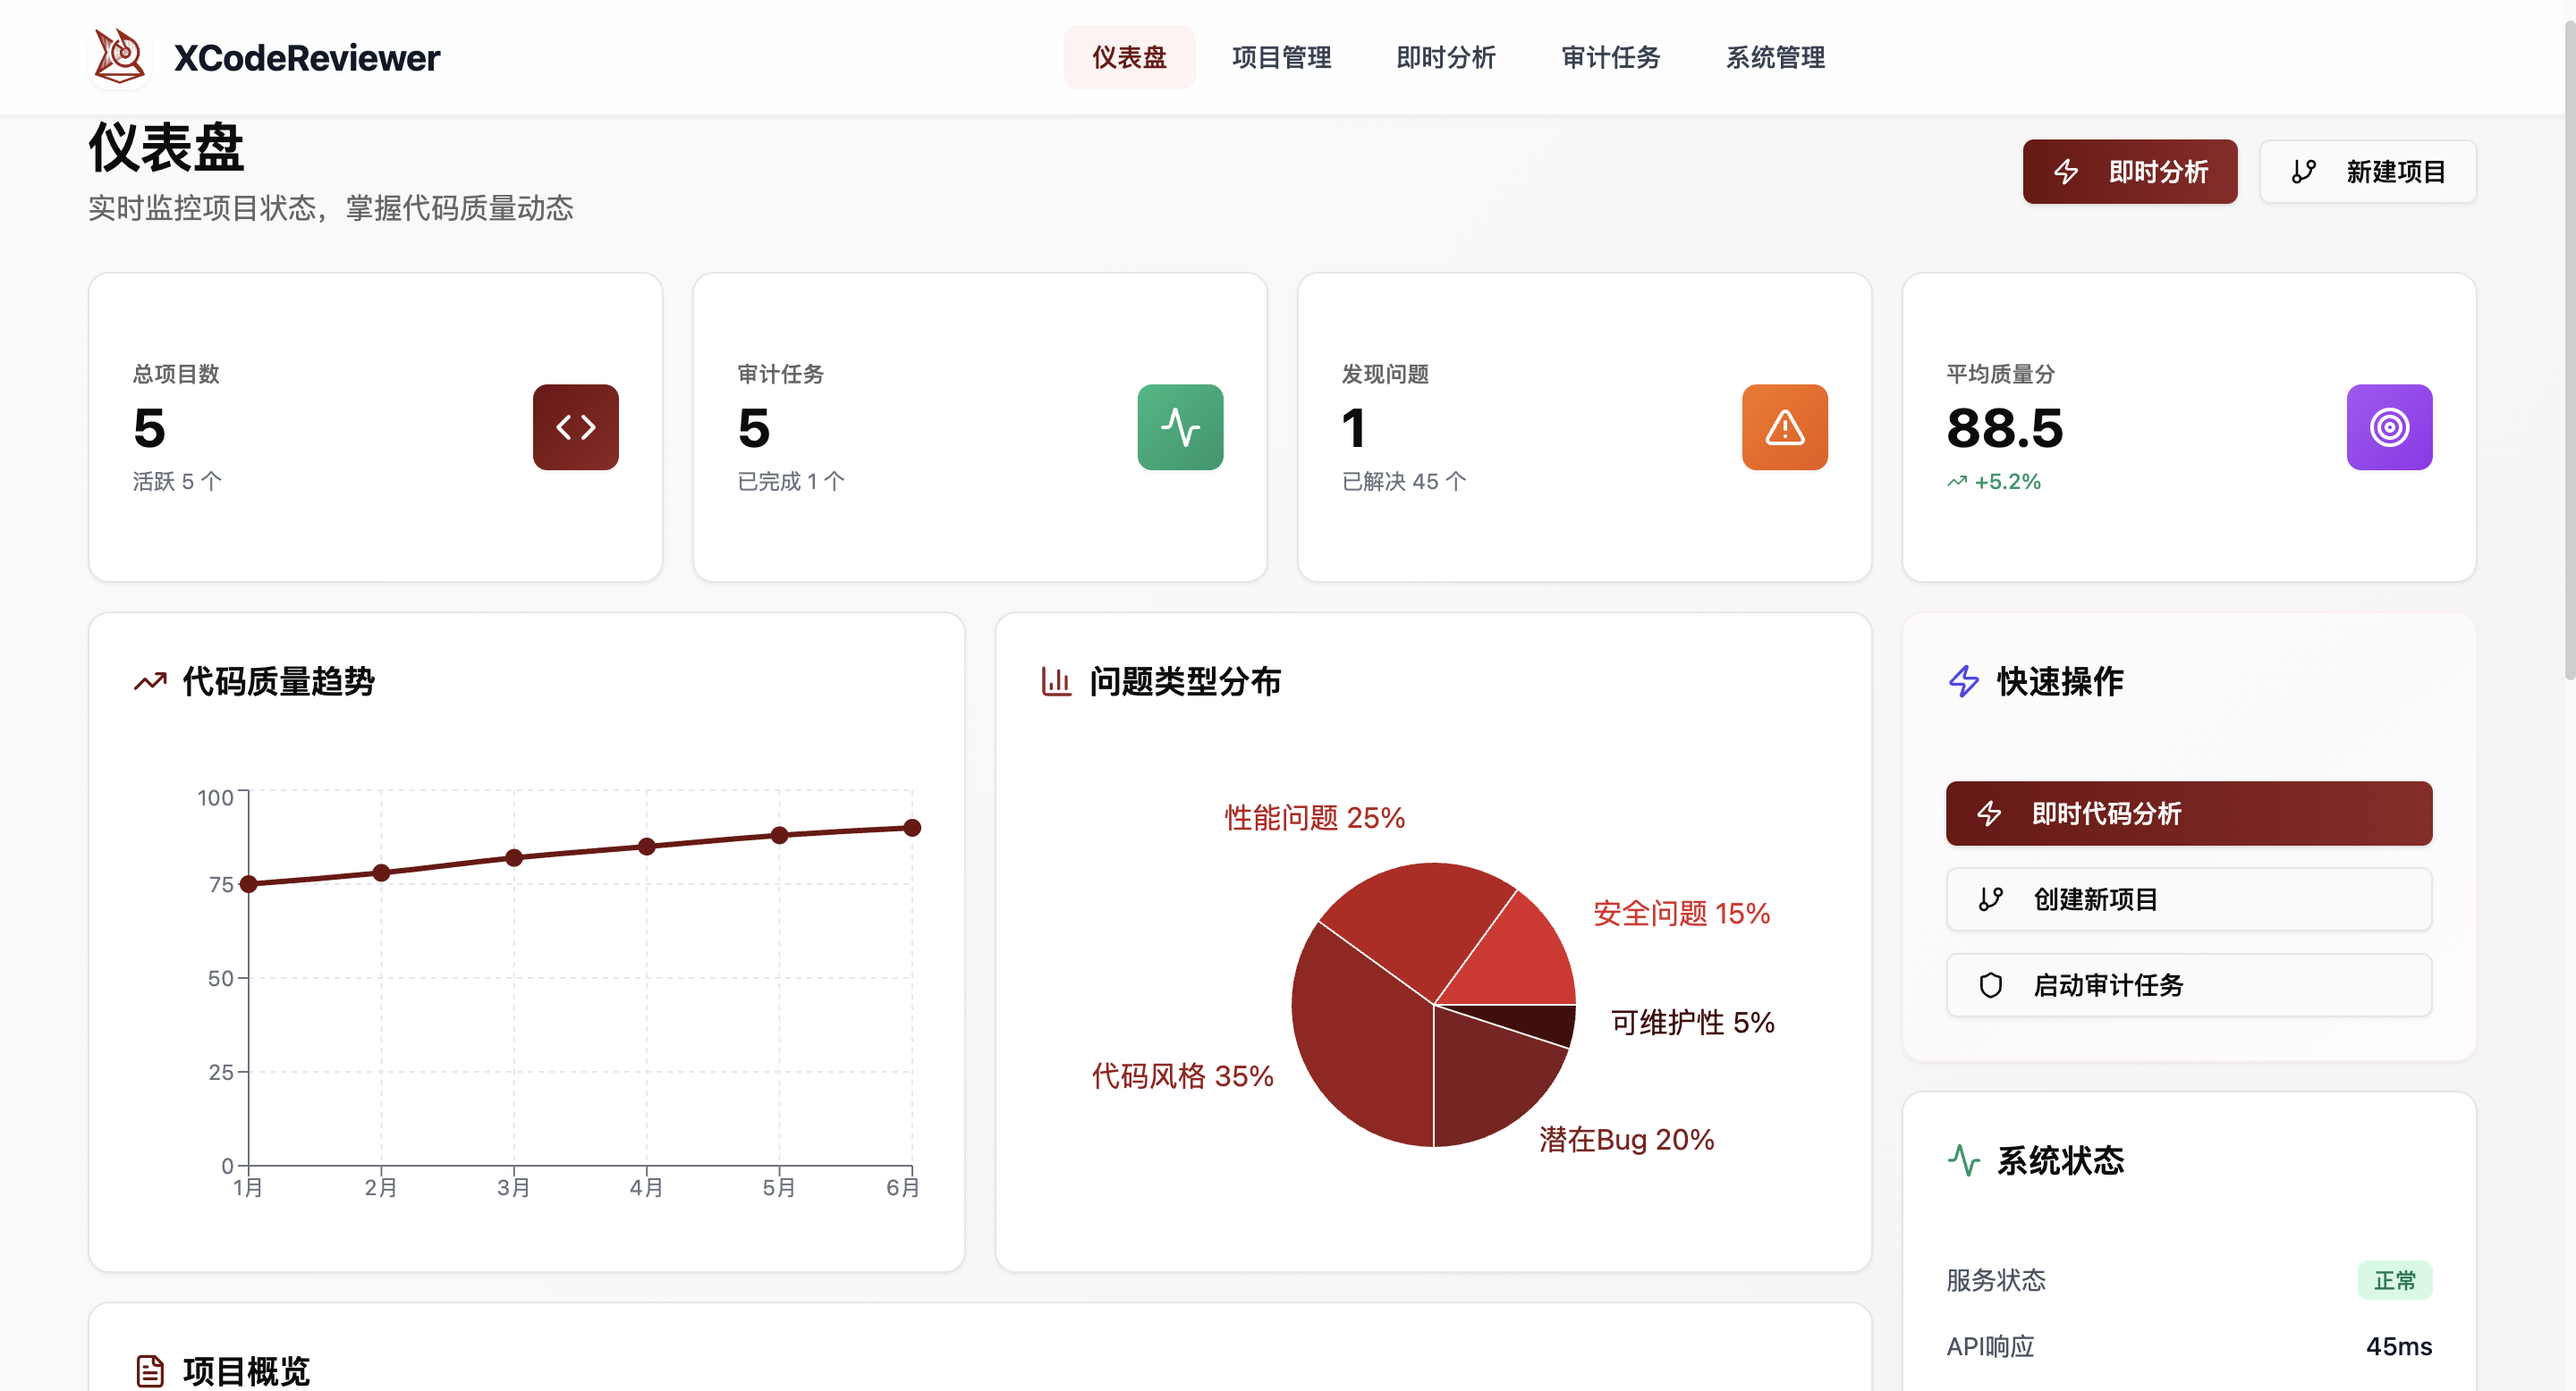
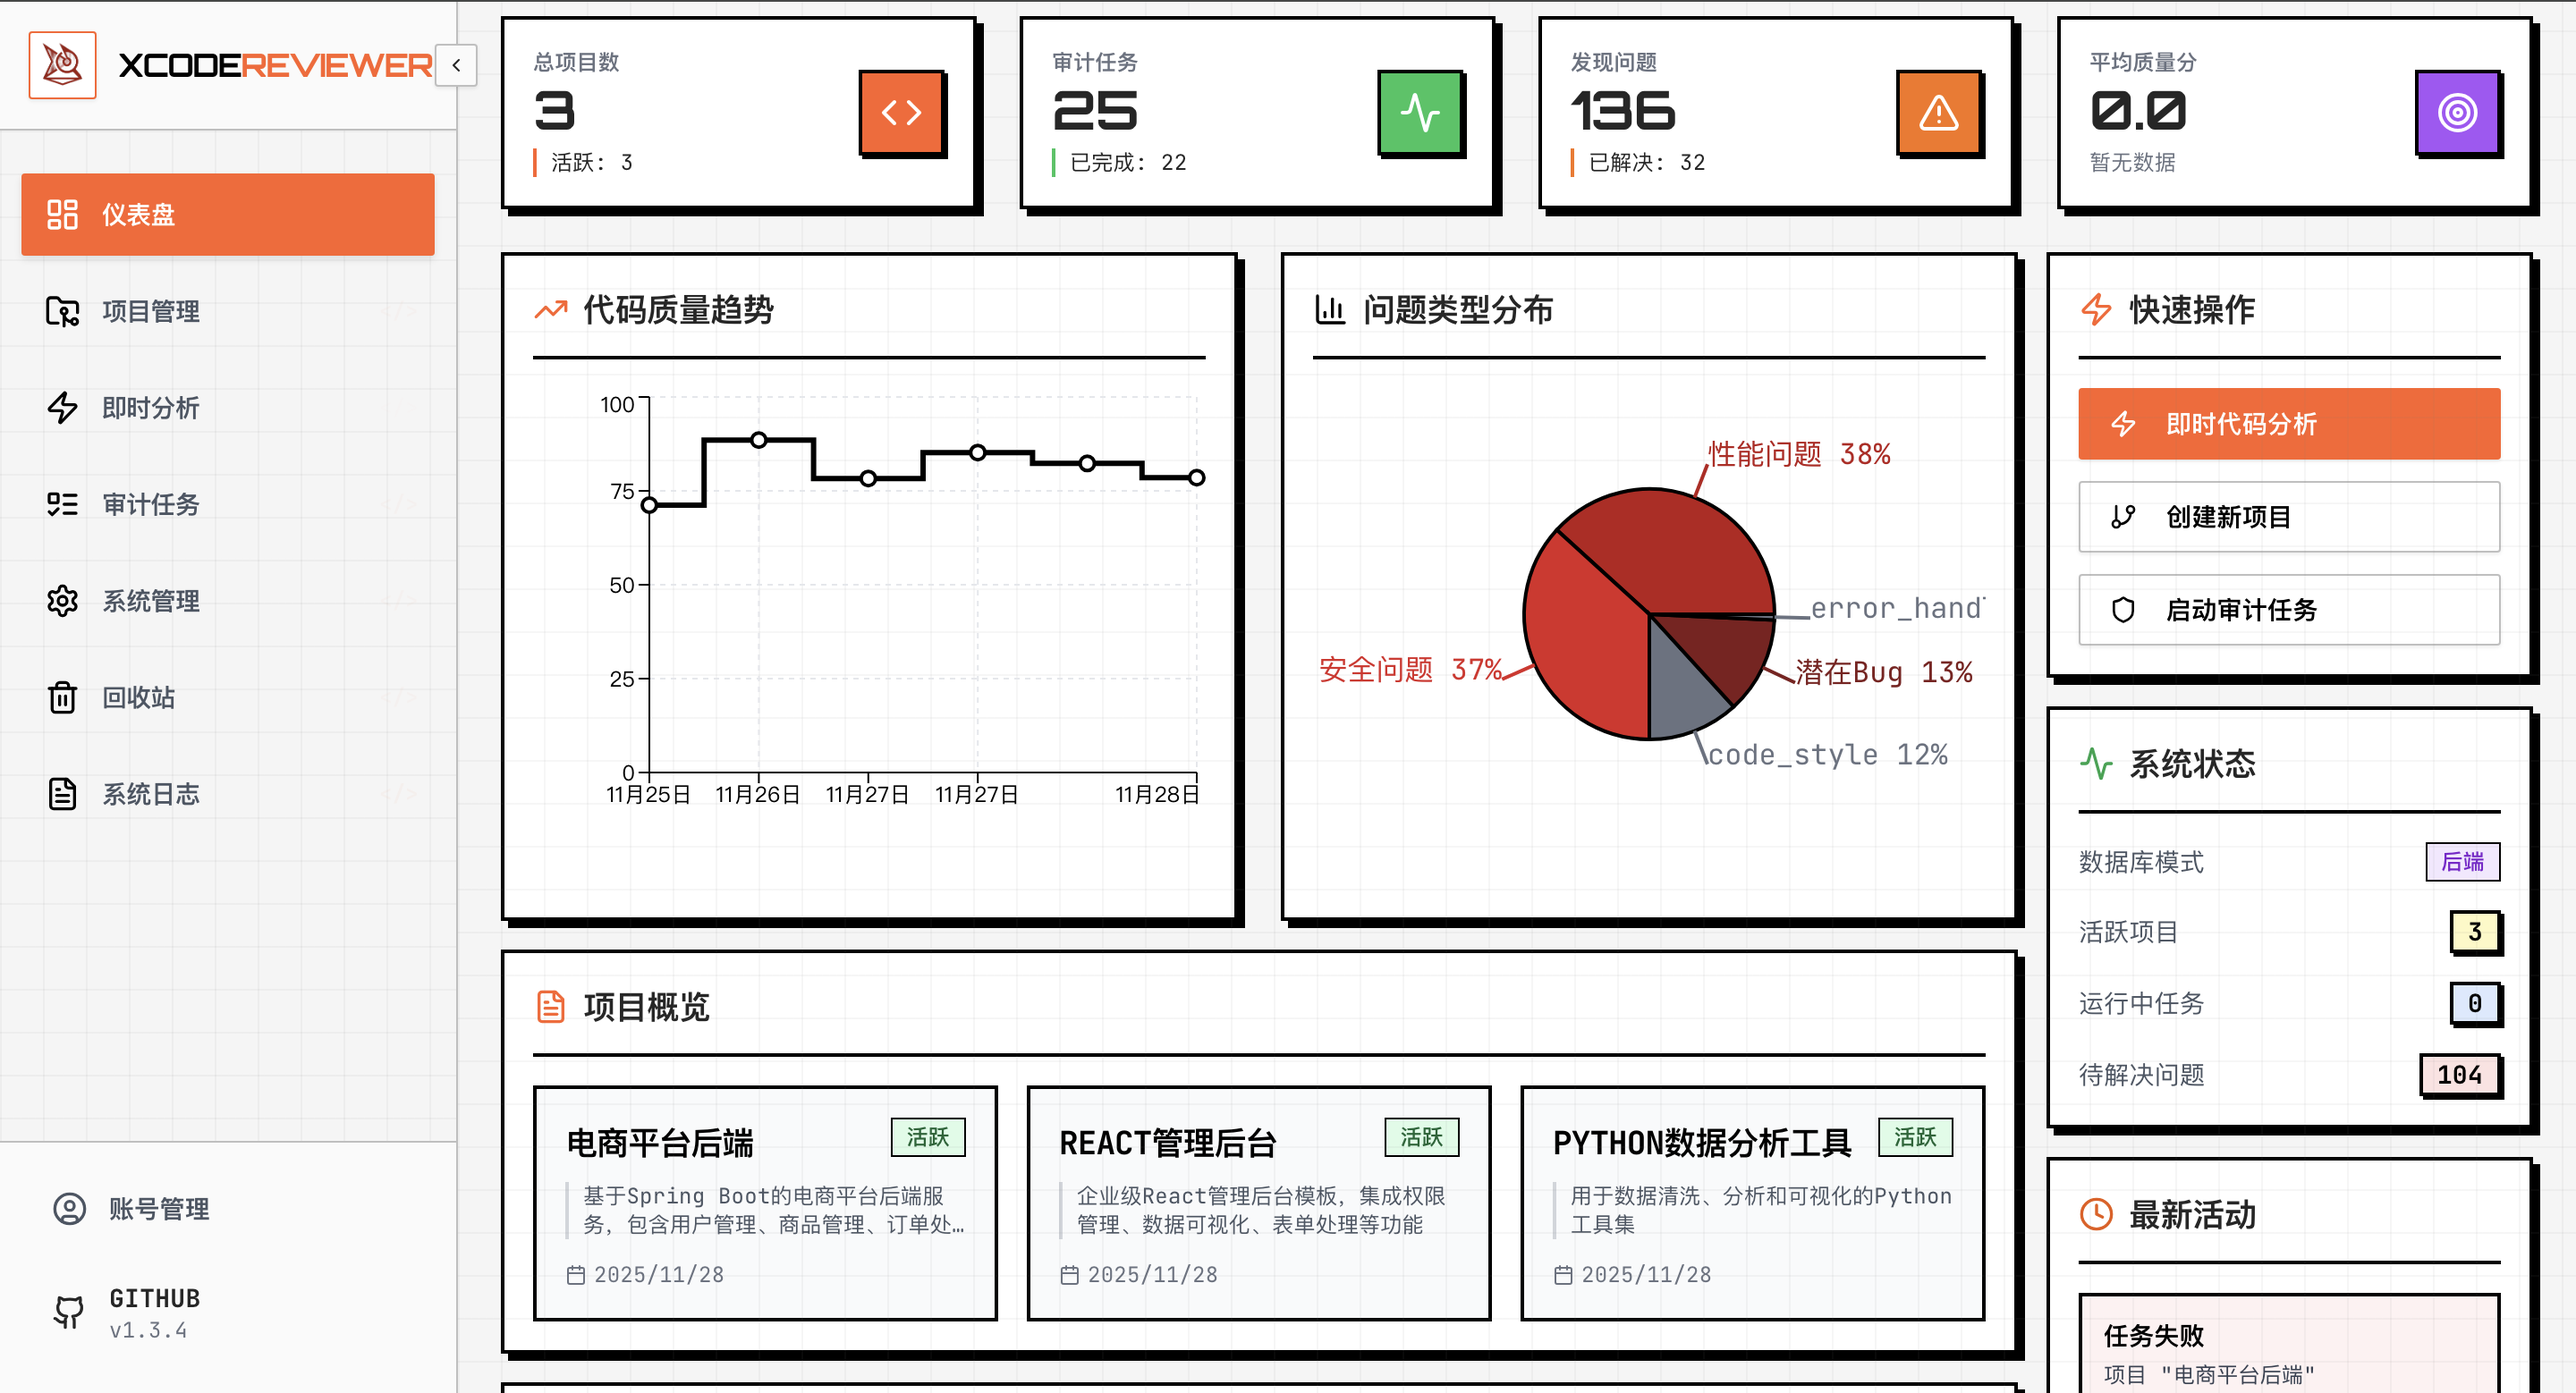
docs: update README image paths and version to 2.0.0-beta.1
- Update all image references from `public/` to `frontend/public/` to reflect correct project structure
- Bump version badge from 1.3.4 to 2.0.0-beta.1 in README
- Refresh example screenshots (example1.png, example2.png, example3.png)
- Update audit report example image (审计报告示例.png)
- Ensure all documentation images point to correct frontend assets location

diff --git a/README.md b/README.md
@@ -1,14 +1,14 @@
 # XCodeReviewer - 您的智能代码审计伙伴 🚀
 
 <div style="width: 100%; max-width: 600px; margin: 0 auto;">
-  <img src="public/images/logo.png" alt="XCodeReviewer Logo" style="width: 100%; height: auto; display: block; margin: 0 auto;">
+  <img src="frontend/public/images/logo.png" alt="XCodeReviewer Logo" style="width: 100%; height: auto; display: block; margin: 0 auto;">
 </div>
 
 
 
 <div align="center">
 
-[![Version](https://img.shields.io/badge/version-1.3.4-blue.svg)](https://github.com/lintsinghua/XCodeReviewer/releases)
+[![Version](https://img.shields.io/badge/version-2.0.0--beta.1-blue.svg)](https://github.com/lintsinghua/XCodeReviewer/releases)
 [![License: MIT](https://img.shields.io/badge/License-MIT-yellow.svg)](https://opensource.org/licenses/MIT)
 [![React](https://img.shields.io/badge/React-18-61dafb.svg)](https://reactjs.org/)
 [![TypeScript](https://img.shields.io/badge/TypeScript-5.7-3178c6.svg)](https://www.typescriptlang.org/)
@@ -24,7 +24,7 @@
 
 <div style="width: 100%; max-width: 600px; margin: 0 auto;">
   <a href="https://github.com/lintsinghua/XCodeReviewer">
-    <img src="public/star-me-cn.svg" alt="Star this project" style="width: 100%; height: auto; display: block; margin: 0 auto;" />
+    <img src="frontend/public/star-me-cn.svg" alt="Star this project" style="width: 100%; height: auto; display: block; margin: 0 auto;" />
   </a>
 </div>
 
@@ -34,7 +34,7 @@
 
 在快节奏的软件开发中，保证代码质量至关重要。传统代码审计工具规则死板、效率低下，而人工审计则耗时耗力。XCodeReviewer 借助 LLM 的强大能力，彻底改变了代码审查的方式：
 
-![系统架构图](public/diagram.svg)
+![系统架构图](frontend/public/diagram.svg)
 
 <div div align="center">
   <em>
@@ -57,15 +57,15 @@
 ### 主要功能界面
 
 #### 智能仪表盘
-![智能仪表盘](public/images/example1.png)
+![智能仪表盘](frontend/public/images/example1.png)
 *实时展示项目统计、质量趋势和系统性能，提供全面的代码审计概览*
 
 #### 即时分析
-![即时分析](public/images/example2.png)
+![即时分析](frontend/public/images/example2.png)
 *支持代码片段快速分析，提供详细的 What-Why-How 解释和修复建议*
 
 #### 项目管理
-![项目管理](public/images/example3.png)
+![项目管理](frontend/public/images/example3.png)
 *集成 GitHub/GitLab 仓库，支持多语言项目审计和批量代码分析*
 
 ## 🚀 快速开始
